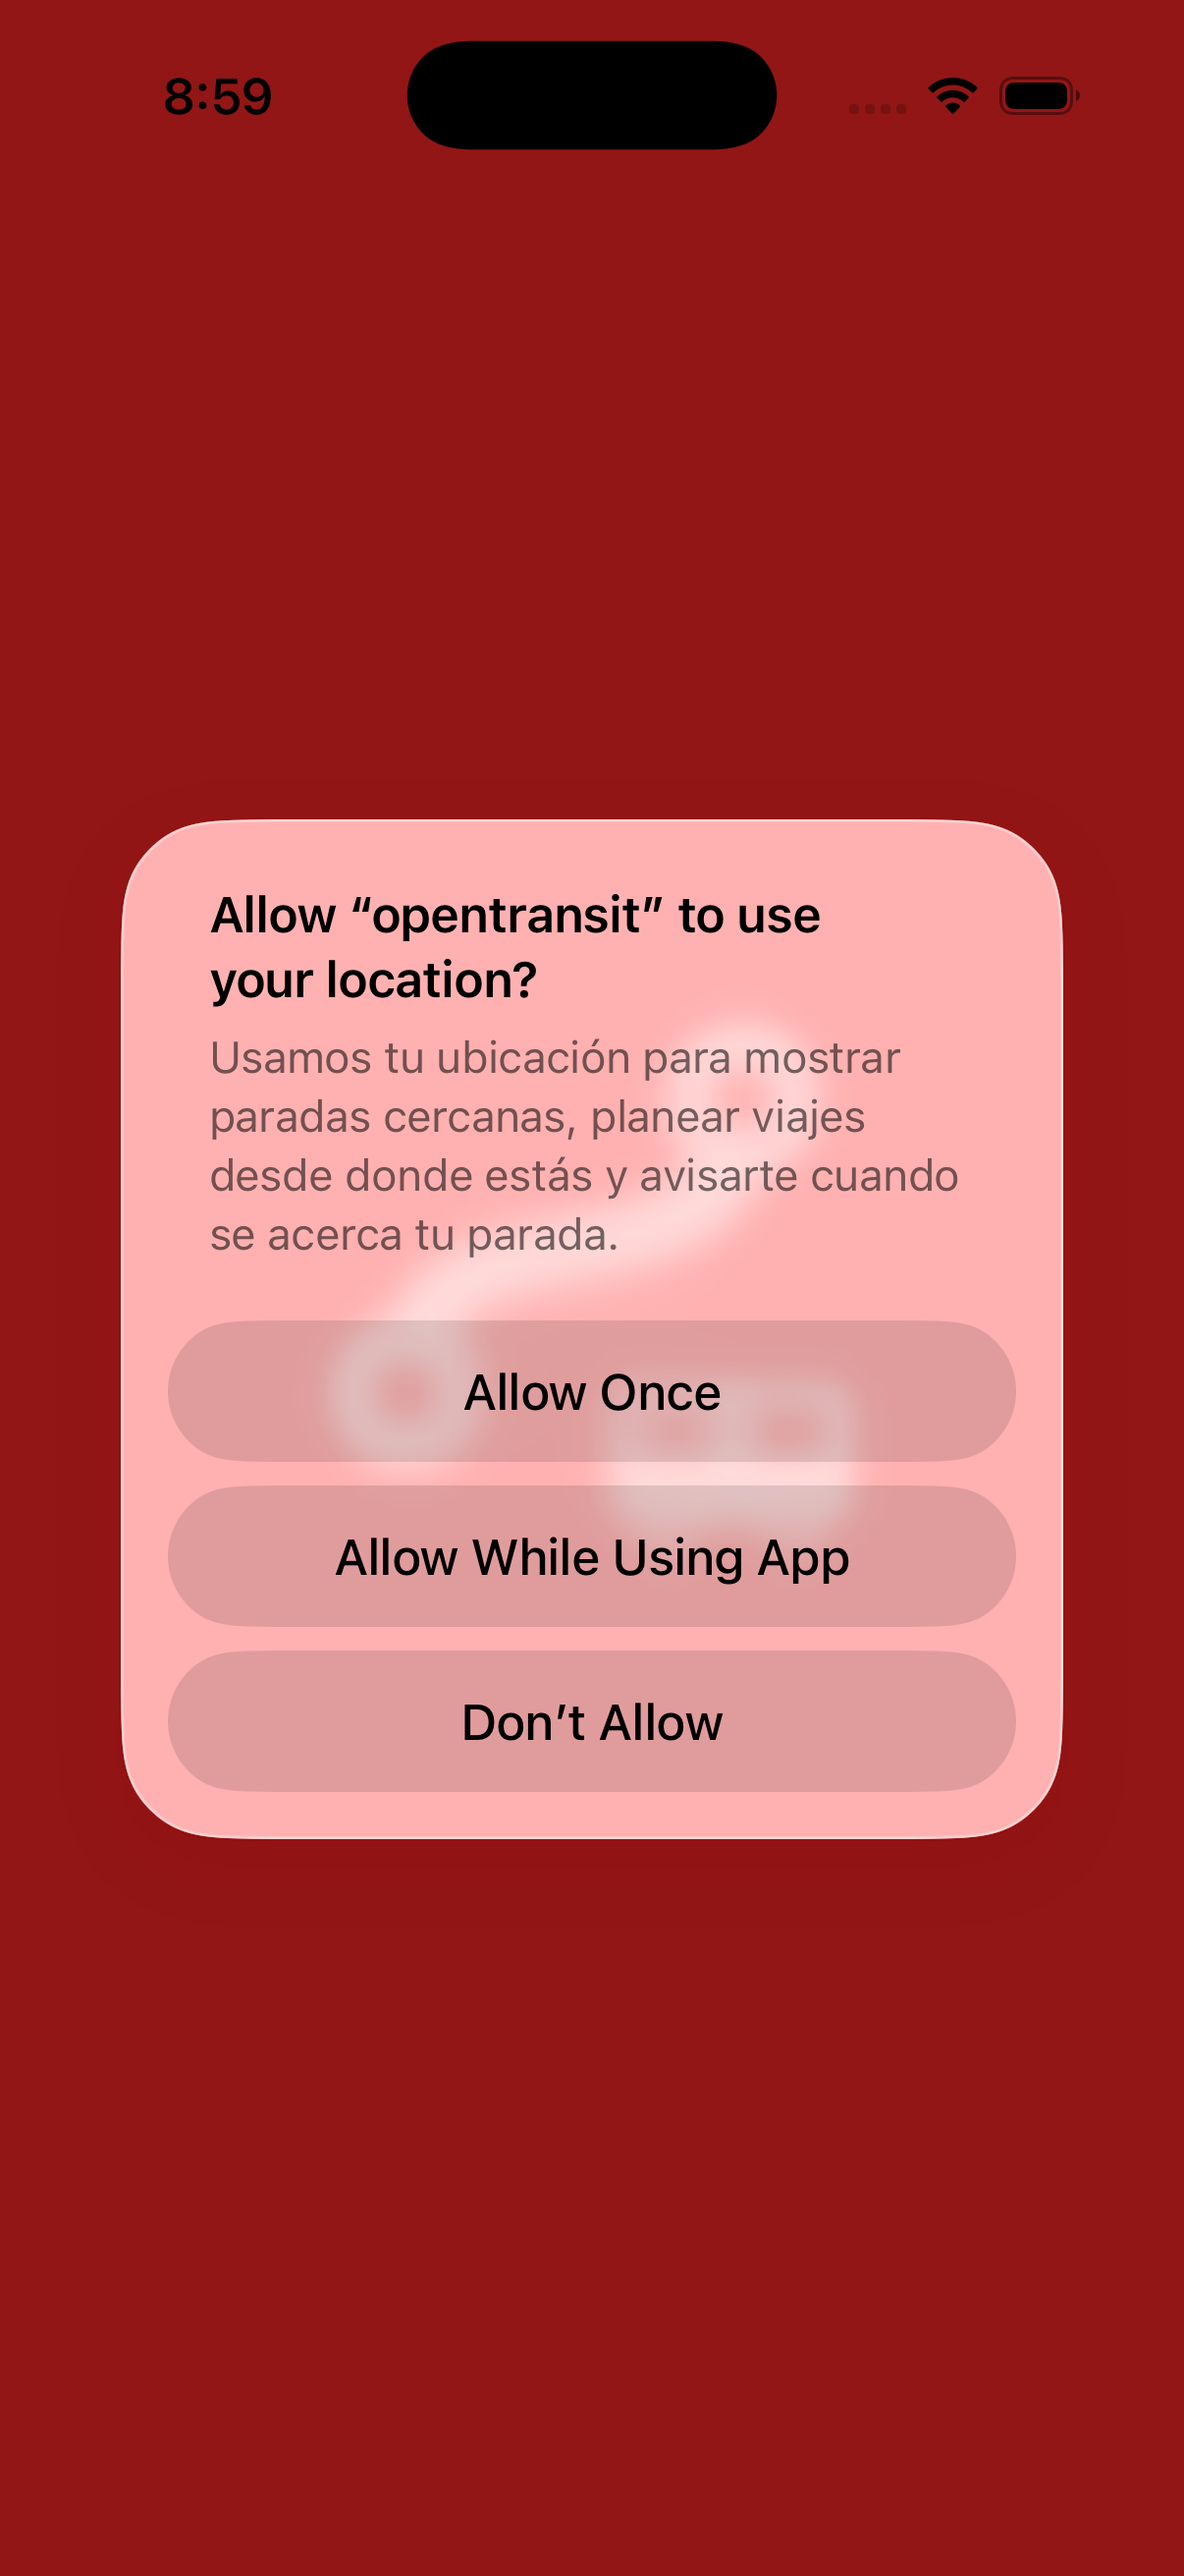
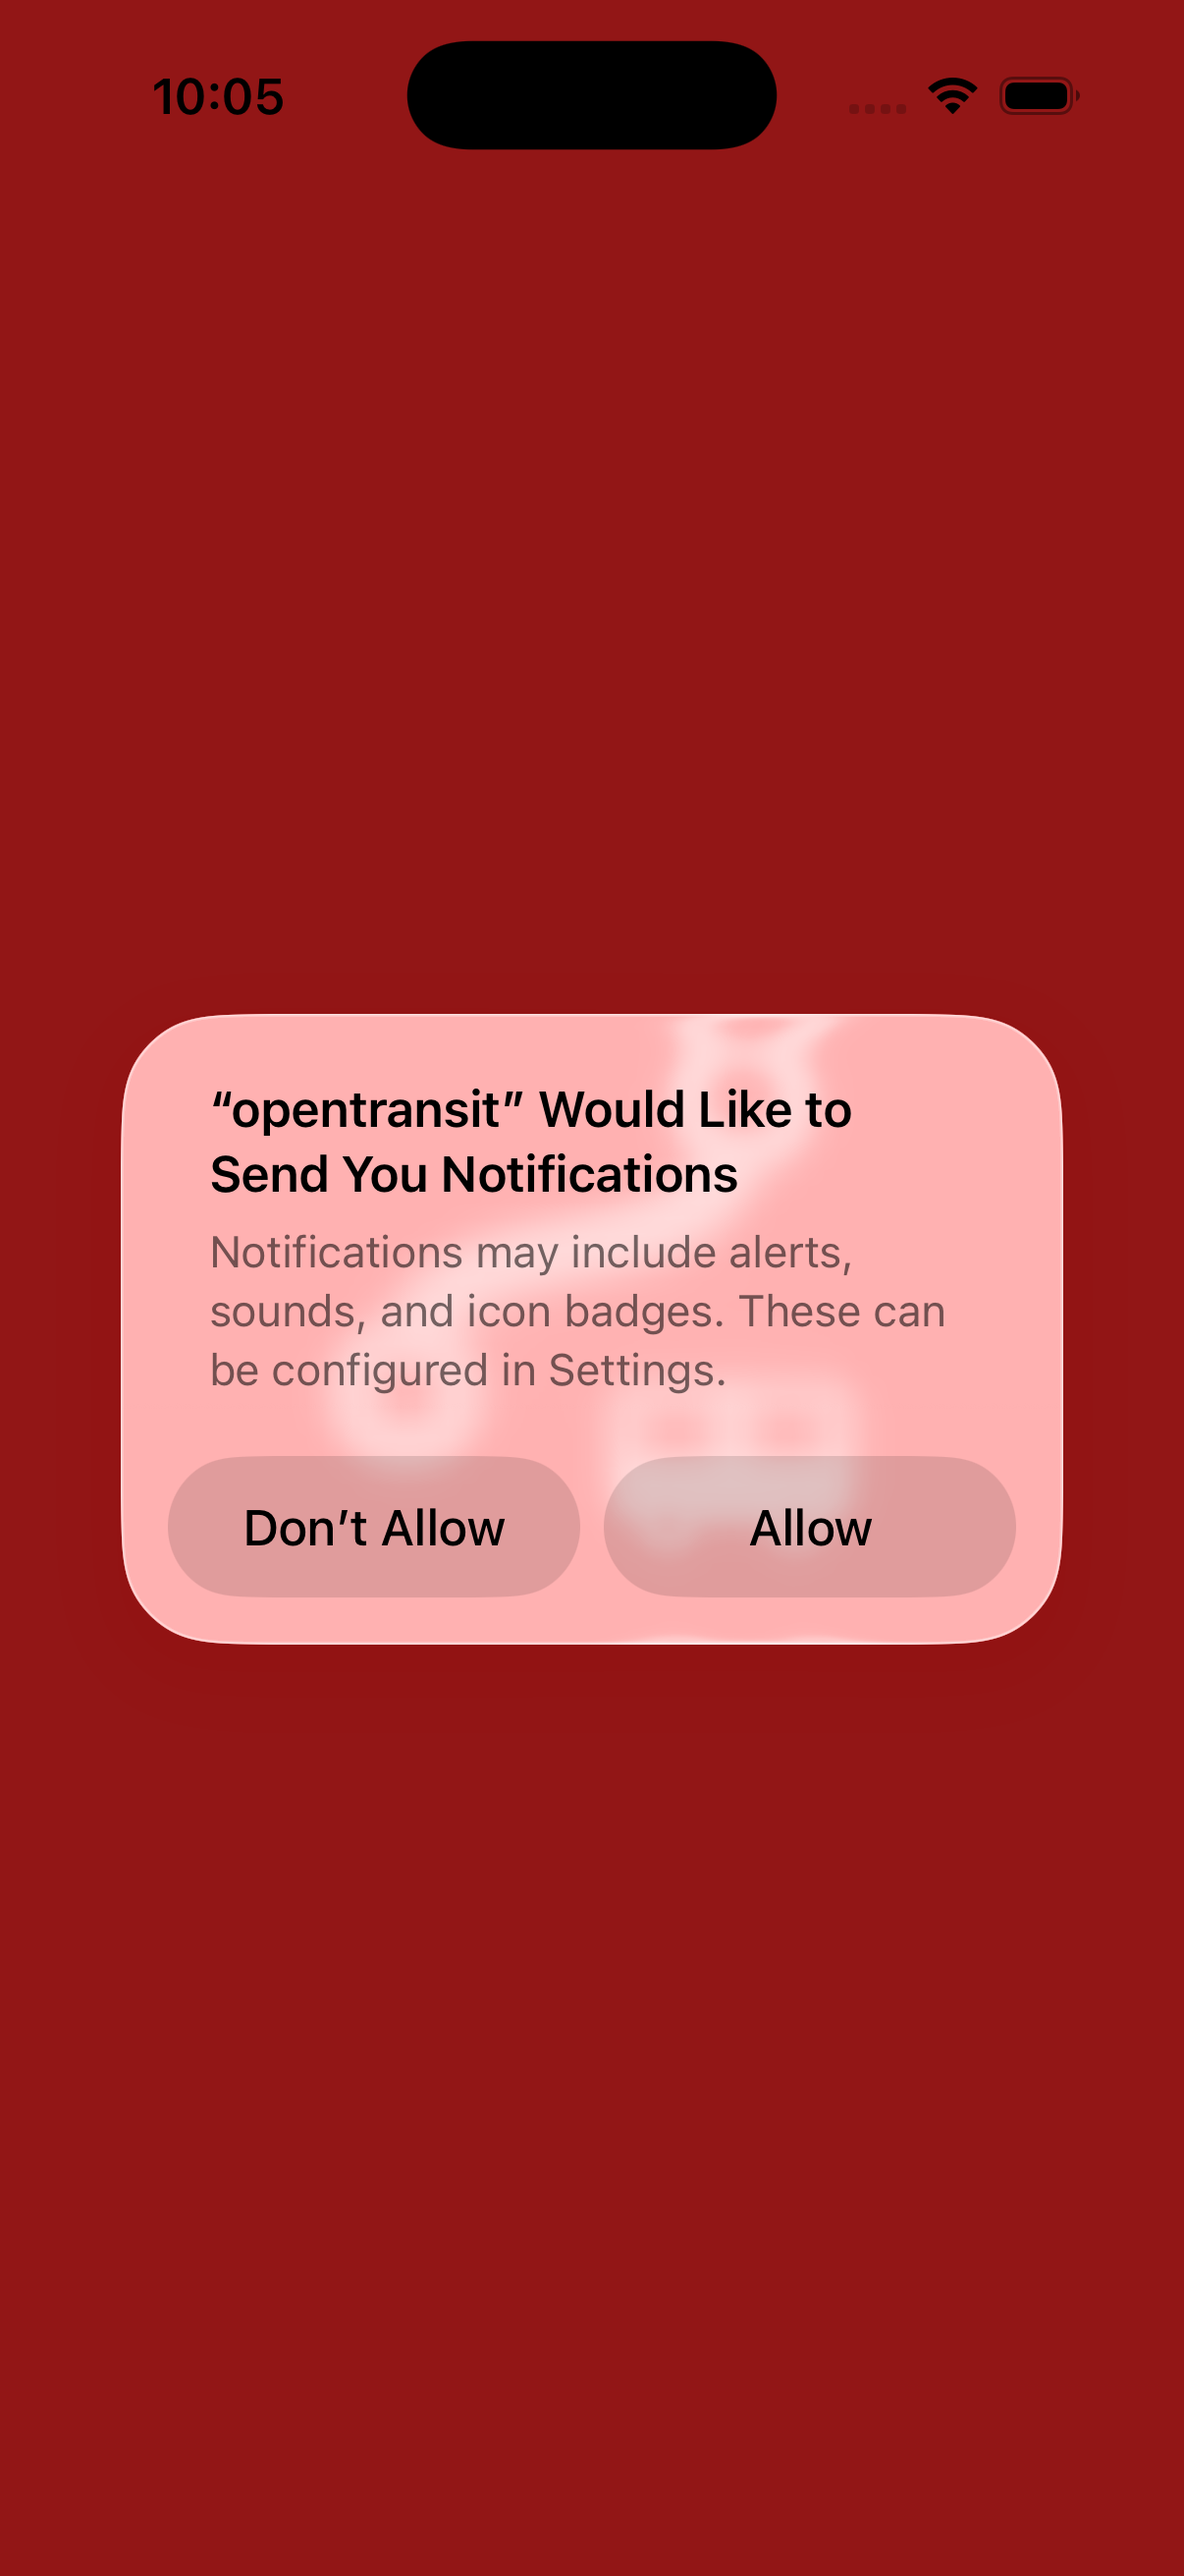
Release script signs the companion bundles; walkthrough survives the system prompts
testflight.sh maps each embedded bundle id to its App Store profile
(COMPANION_PROFILES) and lists them all in the export options, so the archive
signs the Live Activity, the watch app and its complications alongside Runner.

Two walkthrough fixes: the location grant is re-applied while flutter drive runs
(the reinstall drops it), and notifications get the same skip seam location
already had. An unanswered system alert survives reinstalls and silently
swallows taps, which is what was breaking the bike step.

README documents the targets, the generator script and the data flow.

Claude-Session: https://claude.ai/code/session_01SDzEabQrP5XzwyWhHfsXyV

Changed region(s): [[0.092, 0.3089, 0.9204, 0.7414], [0.1227, 0.0309, 0.2454, 0.0618]]

diff --git a/lib/core/utils/notifications.dart b/lib/core/utils/notifications.dart
@@ -1,6 +1,13 @@
 import 'package:flutter/foundation.dart';
 import 'package:flutter_local_notifications/flutter_local_notifications.dart';
 
+/// Set by the screenshot walkthrough only, for the same reason as
+/// [skipLocationPrompt] in `location.dart`: the iOS notification prompt is a
+/// system alert that Dart cannot dismiss, and it would sit on top of every
+/// screenshot taken from GO onwards. With this on the app never asks and
+/// simply posts nothing if authorisation was never granted.
+bool skipNotificationPrompt = false;
+
 /// Local notifications for the follow-along ("Iniciar viaje") mode.
 /// Foreground only; no push infrastructure.
 class LocalNotifications {
@@ -29,6 +36,7 @@ class LocalNotifications {
   }
 
   Future<bool> requestPermission() async {
+    if (skipNotificationPrompt) return false;
     if (!await init()) return false;
     try {
       final ios = _plugin.resolvePlatformSpecificImplementation<IOSFlutterLocalNotificationsPlugin>();

diff --git a/integration_test/screenshots_test.dart b/integration_test/screenshots_test.dart
@@ -15,6 +15,7 @@ import 'package:opentransit_mobile/core/models/models.dart';
 import 'package:opentransit_mobile/core/providers.dart';
 import 'package:opentransit_mobile/core/storage/favorites.dart';
 import 'package:opentransit_mobile/core/utils/location.dart' as loc;
+import 'package:opentransit_mobile/core/utils/notifications.dart' as notif;
 import 'package:opentransit_mobile/core/utils/rental.dart';
 import 'package:opentransit_mobile/core/widgets/common.dart';
 import 'package:opentransit_mobile/features/planner/planner_state.dart';
@@ -47,6 +48,7 @@ void main() {
     // `flutter drive` reinstalls the app, resetting the simulator's location
     // authorisation; the system prompt would then cover every later shot.
     loc.skipLocationPrompt = true;
+    notif.skipNotificationPrompt = true;
     SharedPreferences.setMockInitialValues({});
     final prefs = await SharedPreferences.getInstance();
     final container = ProviderContainer(overrides: [

diff --git a/integration_test/live_api_test.dart b/integration_test/live_api_test.dart
@@ -14,6 +14,7 @@ import 'package:opentransit_mobile/core/models/models.dart';
 import 'package:opentransit_mobile/core/connectivity.dart';
 import 'package:opentransit_mobile/core/providers.dart';
 import 'package:opentransit_mobile/core/utils/location.dart' as loc;
+import 'package:opentransit_mobile/core/utils/notifications.dart' as notif;
 import 'package:opentransit_mobile/core/widgets/common.dart';
 import 'package:opentransit_mobile/features/planner/planner_state.dart';
 import 'package:opentransit_mobile/features/planner/widgets/itinerary_card.dart';
@@ -53,6 +54,7 @@ void main() {
     // The system location prompt cannot be dismissed from Dart and would
     // cover every screenshot taken after GO starts.
     loc.skipLocationPrompt = true;
+    notif.skipNotificationPrompt = true;
     SharedPreferences.setMockInitialValues({});
     final prefs = await SharedPreferences.getInstance();
     final api = HttpApiClient(AppConfig.apiUrl);

diff --git a/test/live_activity_test.dart b/test/live_activity_test.dart
@@ -5,10 +5,9 @@ import 'package:opentransit_mobile/core/watch/watch_sync.dart';
 
 /// Records what the platform side would have received.
 class _FakeChannel {
-  _FakeChannel(this.name, {this.supported = true, this.startOk = true});
+  _FakeChannel(this.name, {this.supported = true});
   final String name;
   final bool supported;
-  final bool startOk;
   final calls = <(String, Map<Object?, Object?>?)>[];
 
   MethodChannel install() {
@@ -18,7 +17,7 @@ class _FakeChannel {
       calls.add((call.method, call.arguments as Map<Object?, Object?>?));
       return switch (call.method) {
         'isSupported' => supported,
-        'start' => startOk,
+        'start' => true,
         _ => true,
       };
     });

diff --git a/README.md b/README.md
@@ -318,6 +318,62 @@ Inspired by the Citymapper playbook (see the private reference analysis):
 
 `lib/core/analytics/` implements CONTRACT-analytics v1.5: `Analytics.track(type, props)` queues coarsened events (coordinates rounded to 3 decimals ≈ 110 m, no free text, no addresses) in SharedPreferences (cap 500) and flushes them every 30 s, at 20 pending events or when the app goes to background, as one `POST /v1/cities/{city}/events` batch (≤ 50 events, 24 h max age, exponential back-off). Identity is a random session id per start and a cohort id that rotates every 30 days; both are renewed by **Borrar mis estadísticas**. The toggle **Compartir estadísticas anónimas de uso** (Settings › Privacidad, default on) drops the queue and stops everything when off. Instrumented: app open, screen views, search selections, plan request/result, itinerary select, GO start/end, stop/board/route views, "Ubica tu bus" queries, provider hand-offs, rental station views, favorites, alert views, layer and mode toggles, errors. No third-party SDKs.
 
+## Wearables and Live Activities
+
+Three native targets ship inside the app. They are additive: the phone app
+behaves identically when no watch is paired, on Android, and on any iPhone
+where Live Activities are unavailable or switched off.
+
+| Target | Bundle id | What it is |
+|---|---|---|
+| `OpenTransitLiveActivity` | `com.jeronimotech.opentransit.LiveActivity` | WidgetKit + ActivityKit extension (iOS 16.2+): lock-screen card and Dynamic Island for a trip in progress |
+| `opentransit Watch App` | `com.jeronimotech.opentransit.watchkitapp` | watchOS 10+ SwiftUI app: *Cerca de ti*, *Ubica tu bus*, GO mirror |
+| `OpenTransitWatchComplications` | `com.jeronimotech.opentransit.watchkitapp.complications` | Corner / circular / rectangular / inline complications with the next departure |
+
+### Adding the targets to a fresh checkout
+
+The targets live in `ios/` as plain Swift sources; the Xcode project entries are
+generated, never hand-edited:
+
+```bash
+APPLE_TEAM_ID=6DTDJCKC8X tool/xcode_targets.rb          # add or repair
+tool/xcode_targets.rb --check                            # CI-friendly assertion
+```
+
+The script is idempotent and uses the `xcodeproj` gem that ships inside
+CocoaPods, so there is nothing extra to install. Three things it has to get
+right, each of which cost a failed build to find:
+
+- the watch app is a **plain application** target against the watchOS SDK; the
+  legacy `watchapp2` pairing type makes Xcode emit the binary twice;
+- both embed phases must run **before** Flutter's `Thin Binary` script, which
+  claims the whole bundle as its output and otherwise closes a dependency cycle;
+- the companion targets take their version from `Flutter/Generated.xcconfig`.
+  Inheriting Runner's `Debug`/`Release.xcconfig` instead drags in the Pods
+  xcconfig and the watch target tries to link MapLibre.
+
+`tool/testflight.sh` signs all four bundles: `COMPANION_PROFILES` maps each
+bundle id to its App Store profile, and the export options list every one.
+
+### How the data flows
+
+```
+GO screen ──▶ lib/core/live_activity  ──MethodChannel──▶ LiveActivityBridge.swift ──▶ ActivityKit
+          └─▶ lib/core/watch          ──MethodChannel──▶ WatchSessionBridge.swift ──▶ WatchConnectivity
+                                                                                        │
+                                        watch app ◀── application context ──────────────┘
+                                            └──▶ GET /v1/cities/{city}/watch/summary (direct, when the phone is away)
+```
+
+The phone pushes an **application context**, not messages: it survives the watch
+being asleep and only the newest board matters. The watch caches the last
+payload and shows its age, so a wrist offline says "Sin conexión · hace 3 min"
+rather than going blank.
+
+Live Activities are updated **locally** by the app. While GO runs the app holds
+a foreground location session, so no APNs key is needed for the shipped scope;
+`config.push` on the API is the seam for server-pushed updates later.
+
 ## Release to TestFlight
 
 `tool/testflight.sh` builds, signs, exports and uploads the iOS app using an App Store Connect API

diff --git a/CHANGELOG.md b/CHANGELOG.md
@@ -2,6 +2,18 @@
 
 All notable changes to opentransit-mobile. Format: [Keep a Changelog](https://keepachangelog.com/en/1.1.0/).
 
+## 1.7.0 — Live Activities and Apple Watch
+
+### Added
+- **Live Activity + Dynamic Island** for a trip in progress: route chip, "Bájate en {parada} · {n} min", progress and ETA on the lock screen; compact, expanded and minimal Dynamic Island presentations; tapping deep-links back into the trip. Started by GO, updated locally on every leg or ETA change, ended on arrival or cancel.
+- **Apple Watch app** (watchOS 10+) with *Cerca de ti*, *Ubica tu bus* and a GO mirror that taps the wrist when it is time to get off. Data arrives from the phone over WatchConnectivity and falls back to a direct call to `/watch/summary`; the last board is cached and its age is shown.
+- **Complications** (corner, circular, rectangular, inline) counting down to the next departure of the pinned stop, refreshed through WidgetKit timelines.
+- `tool/xcode_targets.rb`: idempotent, reproducible creation of the three native targets.
+
+### Fixed
+- Watch wire models decode leniently. Swift's synthesized `Decodable` throws on a missing key even when the property has a default, so one field the phone did not send blanked the entire watch.
+- `tool/screenshots.sh` re-applies the simulator location grant during the run; `flutter drive` reinstalls the app and dropped it, leaving the system dialog on top of the screenshot.
+
 ## [Unreleased]
 
 ## [1.6.0] - 2026-09-06
